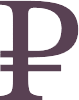
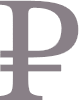
css

diff --git a/css/products.css b/css/products.css
@@ -1,9 +1,15 @@
 * {
     outline: none;
+    color: #666666;
 }
 
 html, body {
     width: 100%;
+}
+
+table {
+    border-spacing: 0;
+    border-collapse: collapse;
 }
 
 .wrapper {
@@ -132,10 +138,14 @@ div.products div.products {
     display: table-row;
 }
 
-.item-info .product_price_block {
-    display: table-cell;
-    vertical-align: middle;
+.item-info .product_price_block td {
+    /*display: table-cell;*/
+    vertical-align: bottom;
     /*display: inline-block;*/
+}
+
+.product_price {
+    line-height: 1em;
 }
 
 .ruble_sign {
@@ -155,9 +165,8 @@ div.products div.products {
     cursor: pointer;
 }
 
-.product_amount {
+/*.product_amount {
     width: 15px;
-    /*padding-left: 5px;*/
     height: 10px;
     color: gray;
 }
@@ -170,8 +179,7 @@ div.products div.products {
     border: 1px solid #dedede;
     -webkit-border-radius: 4px;
     border-radius: 4px;
-    /*float: left;*/
-}
+}*/
 
 .product_amount {
     width: 42px;

diff --git a/index.php b/index.php
@@ -33,22 +33,34 @@ $items = require 'product_list.php';
 
             <?php foreach ($items as $o => $elem): ?>
 
-            <li class="ui-state-default product" data-id="<?php echo sc($elem['id']) ?>">
-                <!--<img class="product_image" src="images/products/<?php /*echo sc($elem['image_preview']) */?>"
-                     alt="<?php /*echo sc($elem['name']) */?>" title="<?php /*echo sc($elem['name']) */?>">-->
-                <div class="product_image" title="<?php echo sc($elem['name']) ?>" style="background-image: url('images/products/<?php echo sc($elem['image_top']) ?>')"></div>
+                <li class="ui-state-default product" data-id="<?php echo sc($elem['id']) ?>">
+                    <div class="product_image" title="<?php echo sc($elem['name']) ?>"
+                         style="background-image: url('images/products/<?php echo sc($elem['image_top']) ?>')"></div>
 
-                <div class="item-info">
-                    <label for="product_amount_<?php echo $o ?>" class="product_name"><?php echo sc($elem['name']) ?></label>
-                    <div class="product_price_block">
-                        <div class="product_price"><?php echo sc($elem['price']) ?></div>
-                        <img class="ruble_sign" src="images/ruble_sign_2.png" alt="ruble">
-                        <input id="product_amount_<?php echo $o ?>" class="product_amount" value="0" maxlength="3">
-                    </div>
-                </div>
-
-                <div class="in-bouquet"></div>
-            </li>
+                    <table class="item-info">
+                        <tr>
+                            <td><label for="product_amount_<?php echo $o ?>"
+                                       class="product_name"><?php echo sc($elem['name']) ?></label></td>
+                        </tr>
+                        <tr>
+                            <td>
+                            <table class="product_price_block">
+                                <tr>
+                                    <td>
+                                        <div class="product_price"><?php echo sc($elem['price']) ?></div>
+                                    </td>
+                                    <td><img class="ruble_sign" src="images/ruble_sign_2.png" alt="ruble"></td>
+                                    <td><input id="product_amount_<?php echo $o ?>" class="product_amount" value="0"
+                                               maxlength="3"></td>
+                                    <td>
+                                        <div class="in-bouquet"></div>
+                                    </td>
+                                </tr>
+                            </table>
+                            </td>
+                        </tr>
+                    </table>
+                </li>
 
             <?php endforeach; ?>
 
